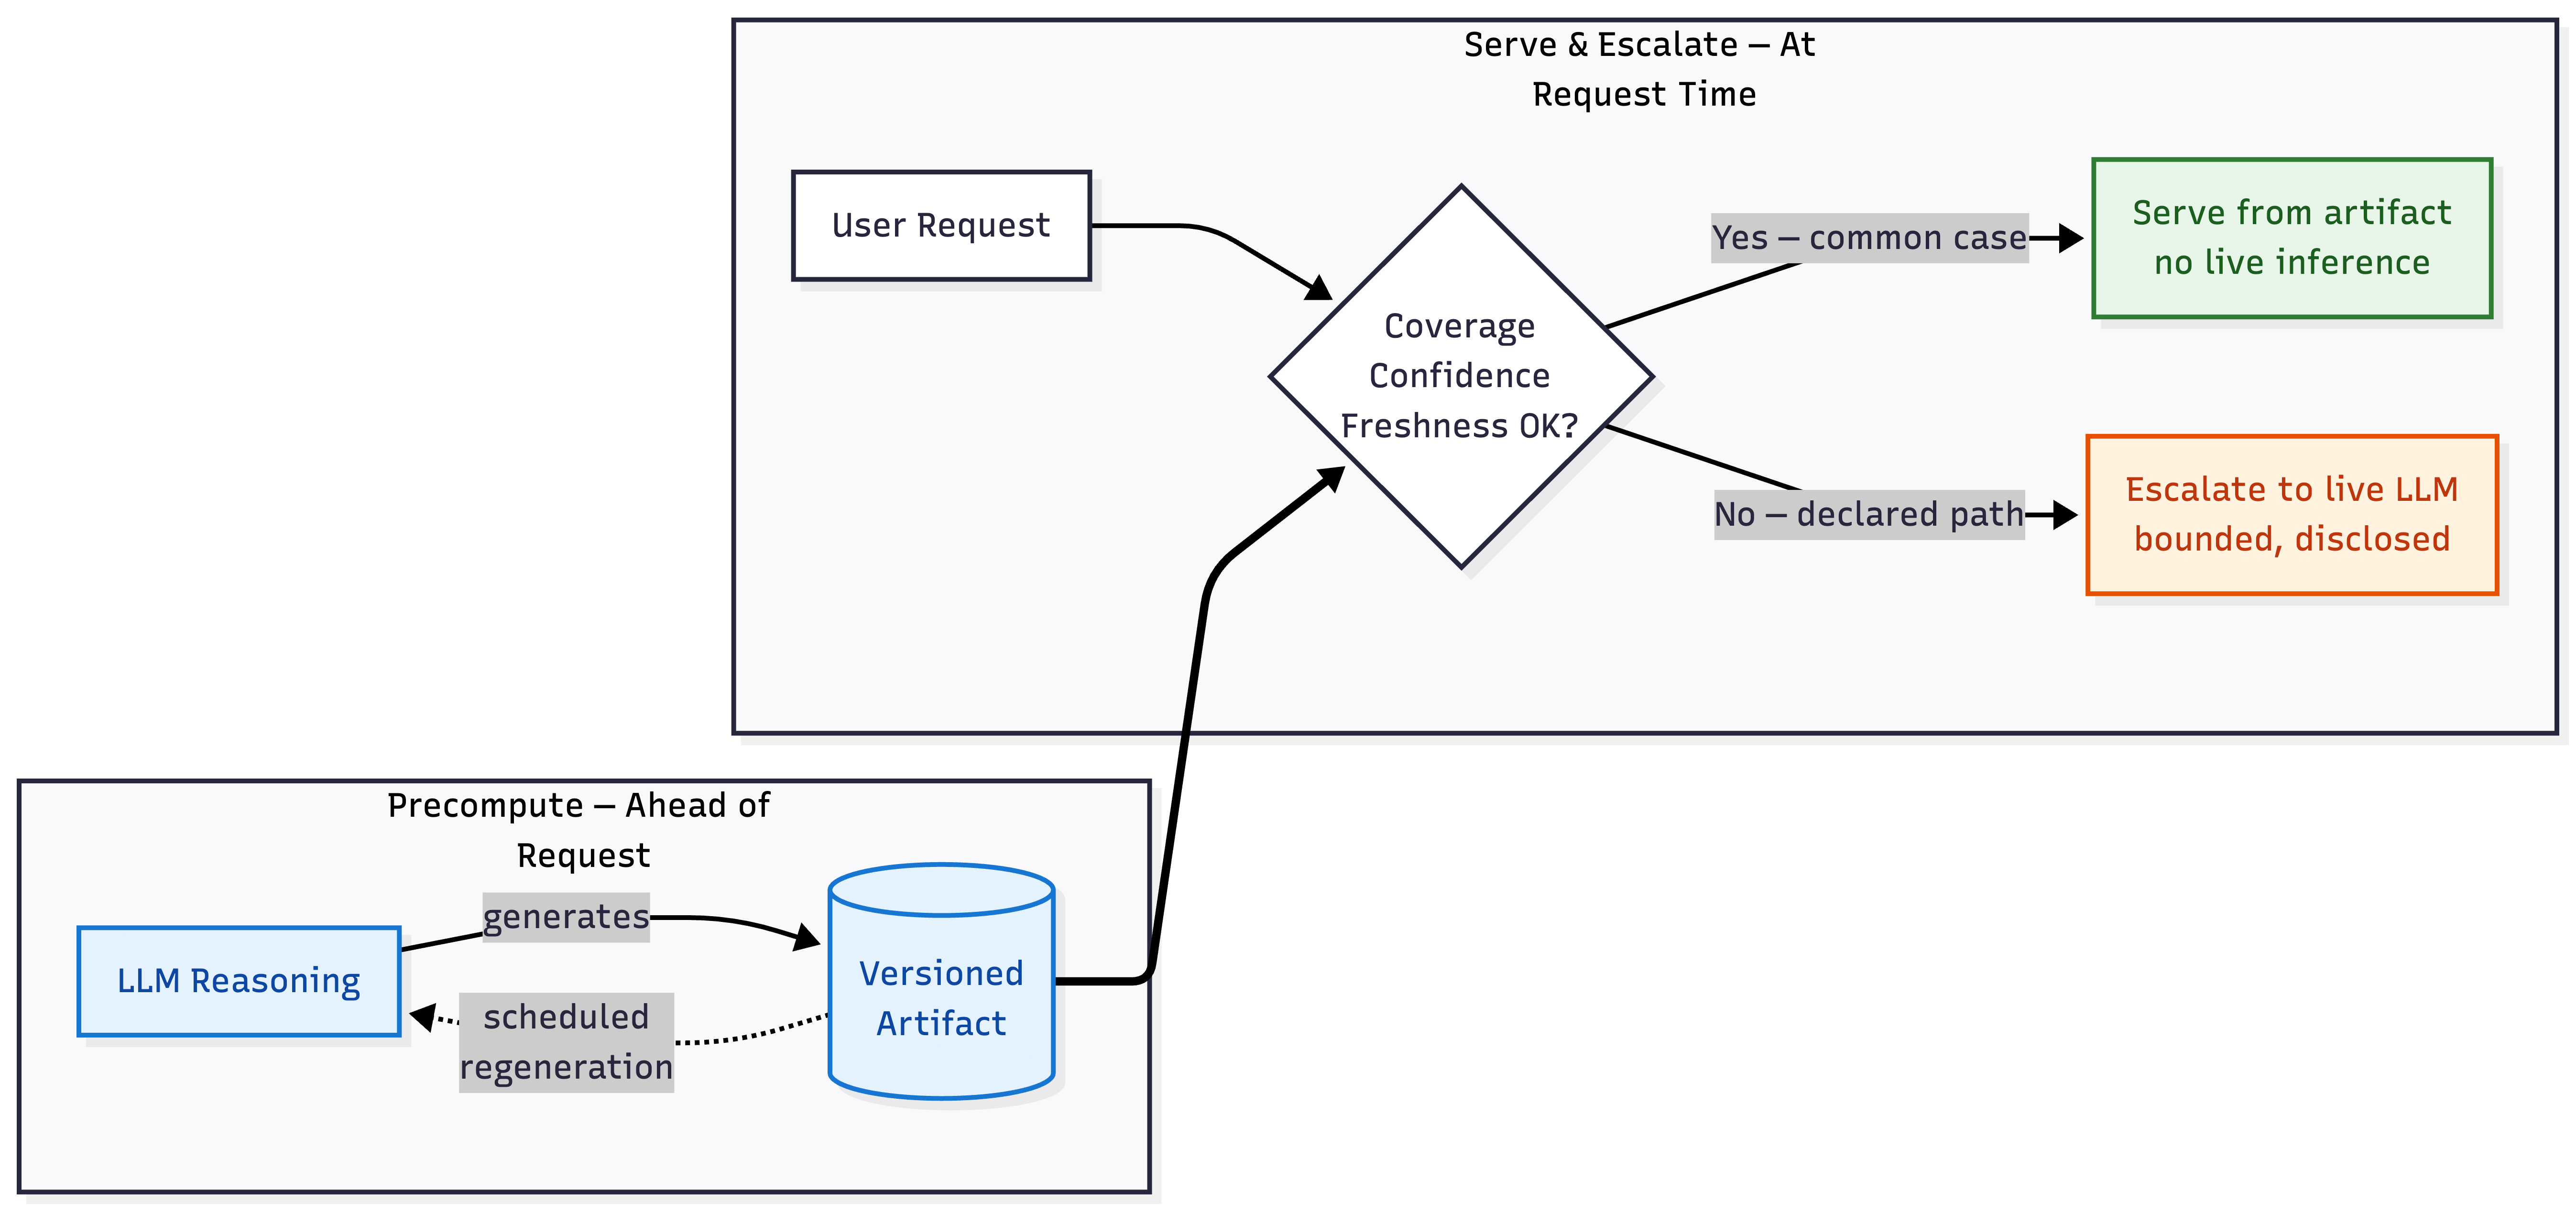
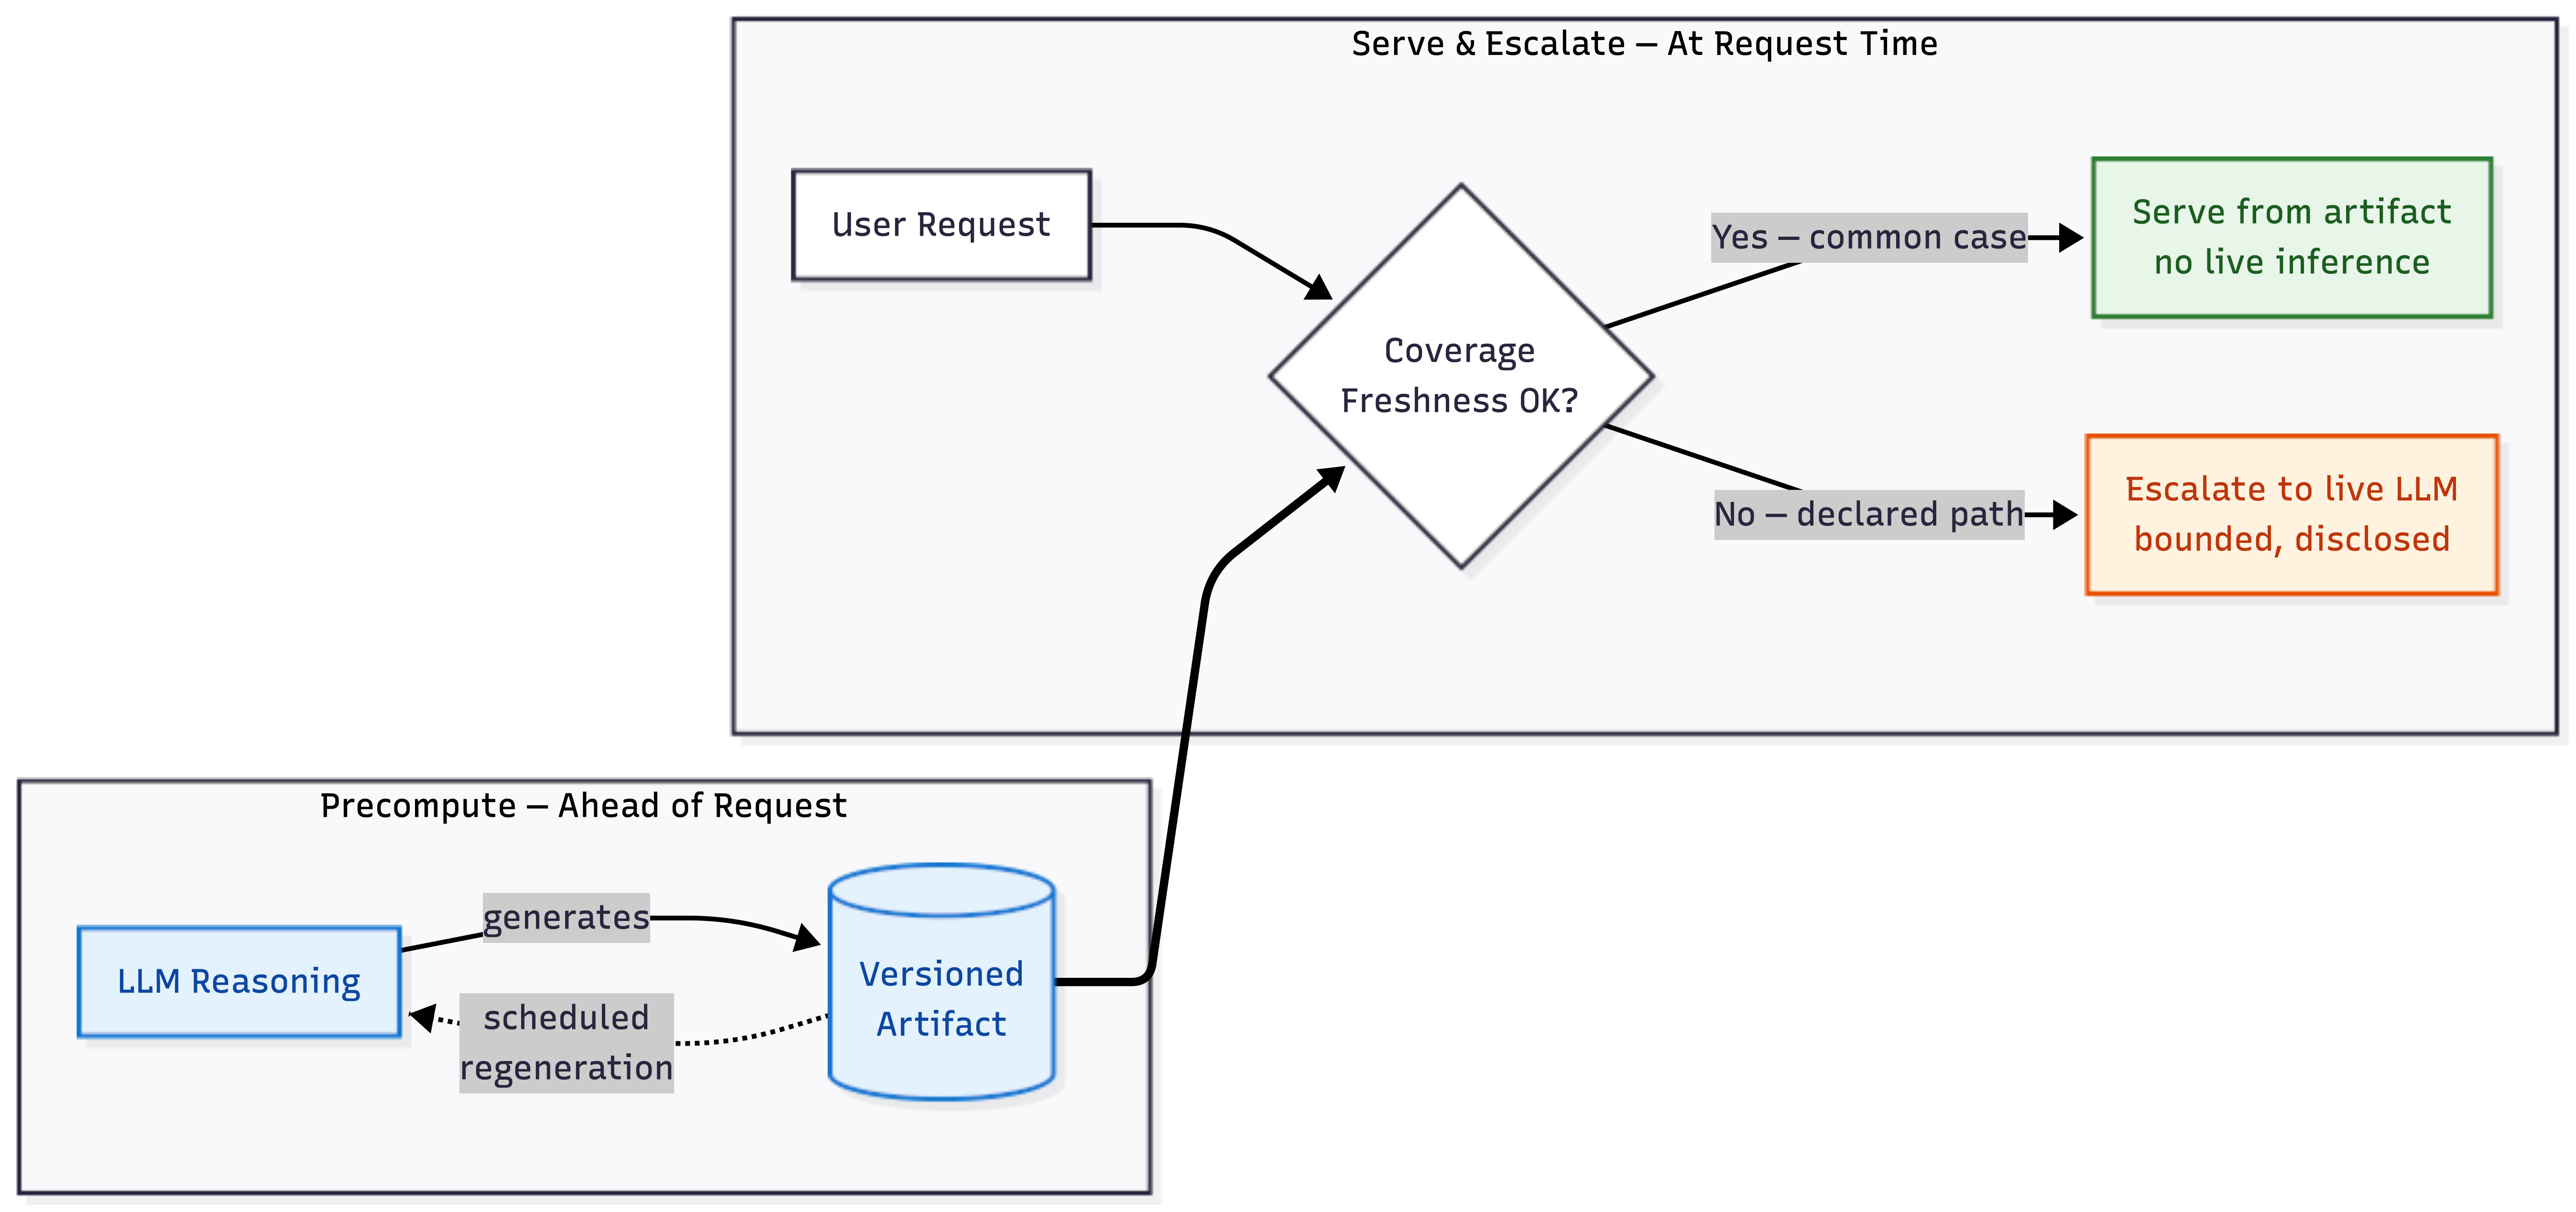
refactor: simplify pattern taxonomy by replacing constraint-baking and scheduled-generation with reasoning, constraints, and snapshots.

diff --git a/README.md b/README.md
@@ -18,15 +18,15 @@ Call it **Precomputed AI**, or **PAI** for short.
 
 **The idea is simple: use the LLM before your users show up, not while they're waiting. Bake the reasoning into something you can version, test, and serve instantly. Only call the LLM live when the precomputed stuff can't handle it.**
 
-Three words: *precompute, serve, escalate.*
+Three words: *precompute, serve, escalate*
 
 If you've used Next.js static export, Jekyll, or Hugo, this will look familiar. Those tools generate pages at build time and serve them instantly at request time, falling back to dynamic rendering only when they have to. PAI applies the same idea to LLM reasoning.
 
 The artifact doesn't have to be a web page. It can be a decision ruleset. A lookup table. Generated code. A precomputed explanation. A policy surface. What matters is where the reasoning lives — not on the user's request, but ahead of it.
 
-PAI is a systems pattern, not an algorithm. It asks where reasoning lives, not what form it takes.
+PAI is a systems pattern, not an algorithm. It asks where reasoning lives — ahead of the request, or inside it.
 
-![Precompute to artifact, served at request time, with an escalate branch when coverage, confidence, or freshness fails](diagram.png)
+![Precompute to artifact, served at request time, with an escalation branch when coverage or freshness fails](diagram.png)
 
 ---
 
@@ -34,19 +34,19 @@ PAI is a systems pattern, not an algorithm. It asks where reasoning lives, not w
 
 PAI gets confused with several adjacent ideas. It shouldn't be.
 
-**It's not caching.** A cache stores identical outputs keyed on identical inputs. PAI precomputes reasoning across an *input space* — a decision surface that covers many cases, not a lookup of past answers.
+**It's not caching.** A cache stores identical outputs keyed on identical inputs. PAI precomputes reasoning across a *decision space* that covers many cases, not a lookup of past answers.
 
-**It's not prompt or context caching.** Prompt caching reduces prefill cost for repeated prompt prefixes, but the final answer is still generated by a live model on every request. PAI removes the live call from the served path entirely.
+**It's not prompt or context caching.** Prompt caching reduces prefill cost for repeated prompt prefixes, but the final answer is still generated by a live model on every request. Response caching stores the full output for identical inputs — closer, but still per-query memoization. PAI removes the live call from the served path entirely.
 
-**It's not batch inference.** Netflix precomputing your movie recommendations overnight is a decades-old pattern on prediction models — the model emits scores, and the served artifact is a numeric table. PAI precomputes *reasoning*: the artifact is itself authored by the LLM, encodes a decision surface with fuzzy coverage, and treats abstention as a first-class outcome with a declared escalation path. Batch inference scores known items; PAI compiles judgment about an input space that won't be fully known until request time.
+**It's not batch inference.** Netflix precomputing your movie recommendations overnight is a decades-old pattern — the served artifact is a ranked list or numeric table. PAI precomputes *reasoning*: the artifact is authored by the LLM, encodes a decision space with fuzzy coverage, and treats abstention as a first-class outcome with a declared escalation path. Batch inference scores known items; PAI compiles judgment about a decision space that won't be fully known until request time.
 
 **It's not routing or cascades.** Routing decides *which* model handles the request. PAI removes the model from the request path altogether.
 
-**It's not Compiled AI.** [A recent paper](https://arxiv.org/abs/2604.05150) from XY.AI Labs, Stanford, Cornell, and Harvard defines Compiled AI as LLM-generated code artifacts that run deterministically without further model invocation. That's one valid technique inside PAI, but PAI covers more than just code artifacts — rulesets, lookup tables, precomputed text, policy surfaces, routing maps — and it keeps escalation as a first-class option.
+**It's not Compiled AI.** [A 2026 paper](https://arxiv.org/abs/2604.05150) from XY.AI Labs, Stanford, and Harvard defines Compiled AI as LLM-generated code artifacts that run deterministically without further model invocation. That's one valid technique inside PAI, but PAI covers more than just code artifacts — rulesets, lookup tables, precomputed text, policy surfaces, routing maps — and it keeps escalation as a first-class option. ("Artifact" in the Compiled AI sense means generated code; in PAI it means any precomputed output of LLM reasoning.)
 
 PAI also sits *above* implementation tooling like DSPy, LMQL, and guidance. Those are ways to author and optimize prompts and programs. PAI is the design pattern that decides where the resulting reasoning lives — at request time, or ahead of it.
 
-I recognize this doesn't apply to every situation. PAI fits best where the input space is bounded and the reasoning is stable enough to precompute — rules-based systems, deterministic paths, decisions that don't need to be re-derived on every request.
+I recognize this doesn't apply to every situation. PAI fits best where the decision space is bounded and the reasoning is stable enough to precompute — rules-based systems, deterministic paths, decisions that don't need to be re-derived on every request.
 
 ---
 
@@ -58,29 +58,26 @@ Every PAI system has three required properties. Without all three, you have some
 
 **2. A regeneration cadence.** The artifact has a refresh policy — hourly, daily, weekly, or triggered by an external event. This addresses the issue of "Won't your ruleset go stale?" Yes, unless you regenerate it. Name the cadence. Show the last-refreshed date. Define the freshness window.
 
-**3. A declared coverage path.** When the artifact can't decide — novel input, low confidence, expired freshness — the system has a documented, gated path for what happens next. Live LLM escalation is the most powerful option, but a deterministic fallback or an explicit abstention ("we don't cover this; here's why") also count. What's not allowed is a silent guess. In user-facing tools the legible form is opt-in with disclosed cost; in enterprise systems it may be policy-, budget-, or admin-gated. The contract is the same; the surface differs.
+**3. A declared escalation path.** When the artifact can't decide — novel input, expired freshness — the system has a documented, gated path for what happens next. Live LLM escalation is the most powerful option, but a deterministic fallback or an explicit abstention ("we don't cover this; here's why") also count. What's not allowed is a silent guess. In user-facing tools the legible form is opt-in with disclosed cost; in enterprise systems it may be policy-, budget-, or admin-gated. The contract is the same; the surface differs.
 
 ---
 
 ## Patterns
 
-Three named patterns currently have shipped proof. Each is a way of applying the required properties to a real system. They compose: a real PAI system typically uses one artifact-shape pattern together with the cadence pattern.
+PAI accommodates multiple patterns — different artifact types,
+refresh cadences, and escalation paths. Named patterns and worked
+examples live in the [pattern catalog](https://precomputedai.com/patterns/).
 
-**Explanation Caching.** The decision logic is deterministic; the LLM writes the reasoning layer ahead of time, and your app serves precomputed explanations alongside the result. RightModel is the canonical example.
-
-**Constraint Baking.** The system precomputes the boundary where the default answer stops holding. RunWhere is the canonical example: stay on the hosted API unless the workload belongs in the self-hosting exception set.
-
-**Scheduled Generation.** The artifact refreshes on a named cadence. Like a newspaper, not a livestream. CloudEstimate's pricing pipeline is the canonical example.
 
 ---
 
-## Three tools I've shipped with this pattern
+## Three tools I've shipped with PAI
 
-**[rightmodel.dev](https://rightmodel.dev)** — model picker for coding tasks. *Input:* a coding task signal set. *Decision logic:* a deterministic ruleset mapping signals to model tiers — no LLM in the decision path. *Artifact:* the explanation cache — precomputed, LLM-authored reasoning for each recommendation, versioned and served alongside the result. *Cadence:* explanation cache refreshed on schedule when prices, models, or capabilities shift. *Coverage path:* opt-in "deep analysis" that escalates to a live LLM with cost disclosed before the user commits. The numbers question: what does it cost to keep the explanation layer fresh, and what does that buy us? Canonical full-PAI example: all three required properties met.
+**[rightmodel.dev](https://rightmodel.dev)** — model picker for coding tasks. *Input:* a coding task signal set. *Decision logic:* a deterministic ruleset mapping signals to model tiers — no LLM in the decision path. *Artifact:* the precomputed explanation layer — LLM-authored reasoning for each recommendation, versioned and served alongside the result. *Cadence:* refreshed on schedule when prices, models, or capabilities shift. *Escalation path:* opt-in "deep analysis" that calls a live LLM with cost disclosed before the user commits. Full PAI: all three required properties met.
 
-**[cloudestimate.dev](https://cloudestimate.dev)** — sizes self-managed workloads across AWS, GCP, and Azure. *Input:* workload + region + cloud. *Artifact:* vendor reference architectures mapped to instance tables, plus LLM-generated sizing explanations, all committed as versioned JSON. *Cadence:* daily pricing snapshots and regenerated explanations via GitHub Actions; "Pricing data last refreshed" footer surfaces the staleness window. *Coverage path:* deterministic fallback (e.g. committed-term pricing computed against the same data); no live LLM escalation in the user flow today. Partial PAI: Scheduled Generation only — listed here as an honest worked example of where live escalation didn't fit the product.
+**[cloudestimate.dev](https://cloudestimate.dev)** — sizes self-managed workloads across AWS, Google Cloud, and Microsoft Azure. *Input:* workload + region + cloud. *Decision logic:* vendor reference architectures mapped to instance tables. *Artifact:* precomputed sizing explanations and pricing data, committed as versioned JSON. *Cadence:* daily pricing snapshots and regenerated explanations via GitHub Actions; "Pricing data last refreshed" footer surfaces the staleness window. *Escalation path:* deterministic fallback — committed-term pricing computed against the same data; no live LLM call in the user flow. Full PAI: all three required properties met.
 
-**[runwhere.dev](https://runwhere.dev)** — answers "stay on the hosted API, or run your own model?" *Input:* a four-question check — API spend, hosted model, anticipated utilization, hard constraints. *Artifact:* a precomputed boundary that separates the API-default common case from a self-hosting exception set; on the exception side, a comparison across managed endpoints, serverless GPU, always-on and batch GPU VMs, and owned hardware. *Cadence:* refreshed when prices, models, or constraints change. *Coverage path:* live LLM analysis reserved for close calls and likely outliers.
+**[runwhere.dev](https://runwhere.dev)** — answers "stay on the hosted API, or run your own model?" *Input:* a four-question check — API spend, hosted model, traffic pattern, hard constraints. *Decision logic:* a precomputed boundary separating the API-default common case from the self-hosting exception set. *Artifact:* the boundary plus a precomputed comparison across managed endpoints, serverless GPU, always-on and batch GPU VMs, and owned hardware. *Cadence:* refreshed when prices, models, or constraints change. *Escalation path:* live LLM analysis reserved for close calls and likely outliers. Full PAI: all three required properties met.
 
 ---
 
@@ -88,7 +85,7 @@ Three named patterns currently have shipped proof. Each is a way of applying the
 
 PAI fits when:
 
-- the input space is bounded or classifiable;
+- the decision space is bounded or classifiable;
 - the reasoning changes slower than request frequency;
 - most requests fall into repeatable cases;
 - low latency or cost predictability matters;
@@ -113,13 +110,19 @@ If those conditions hold, you want live inference, retrieval, or fine-tuning —
 
 ## Why this matters now
 
-Token costs compound at scale. Cheap per call, expensive per million calls. Teams shipping at production volume are running into this wall right now.
+Token costs compound at scale. Cheap per call, expensive per million calls. Teams shipping at production volume are running into this wall right now. PAI moves reasoning out of the request, turning per-call cost into periodic regeneration cost.
 
-Latency budgets are tight. Users don't tolerate synchronous LLM calls in interfaces that used to feel instant. Every feature shipped with a live LLM call is a latency regression unless the reasoning lives somewhere else.
+Latency budgets are tight. Users don't tolerate synchronous LLM calls in interfaces that used to feel instant. Every feature shipped with a live LLM call is a latency regression unless the reasoning lives somewhere else. PAI removes the LLM from the request path — the served artifact is as fast as a static file.
 
-Auditability is becoming a buyer requirement. Enterprise and regulated industries do not accept "the model decided" as an audit trail. Precomputed artifacts are easier to inspect, version, diff, test, and replay than free-form live inference.
+Auditability is becoming a buyer requirement. Enterprise and regulated industries do not accept "the model decided" as an audit trail. A versioned PAI artifact is inspectable, diffable, and testable by default.
 
-LLM providers themselves are moving in this direction — prompt caching, batch APIs, cached responses — without giving it a name. PAI is the name for what a lot of us are already doing under different labels.
+PAI puts a name on a pattern emerging independently across teams. Shared vocabulary makes it easier to teach, evaluate, and compose.
+
+---
+
+## Open questions
+
+- **What does it cost to keep the explanation layer fresh, and what does that buy you?** RightModel is the testbed. The answer depends on regeneration frequency, decision space size, and how much live inference it displaces. Numbers forthcoming.
 
 ---
 
@@ -145,6 +148,6 @@ Concrete ways to engage:
 
 Licensed CC BY 4.0. Cite as: Raquedan, R. (2026). *Precomputed AI: Reason Ahead of Time, Serve Instantly.* https://precomputedai.com
 
-*Last refreshed: 2026-05-03 — v0.5*
+*Last refreshed: 2026-05-17 — v0.6*
 
 This site is open source. [Improve this page](https://github.com/PrecomputedAI/precomputed-ai/edit/main/README.md).

diff --git a/patterns/reasoning.md b/patterns/reasoning.md
@@ -1,0 +1,29 @@
+# Reasoning
+
+*An LLM writes the reasoning layer ahead of time. The application serves precomputed explanations at request time; the decision logic itself is deterministic.*
+
+## Problem
+
+A bounded decision space — model selection, content classification, eligibility, routing — is handled by deterministic logic that already works. But users need to understand *why* they got the answer they got. Generating that explanation with a live LLM call on every request burns tokens and adds latency for reasoning that rarely changes between inputs of the same class.
+
+## Mechanism
+
+Before request time, an LLM is prompted to generate explanations for each region of the decision space. The resulting explanation artifact — a JSON or YAML file mapping decision outcomes to human-readable reasoning — is versioned and served alongside the deterministic result. The decision logic runs without the LLM. The explanation layer is the precomputed artifact.
+
+## Required properties
+
+- **Versioned artifact:** the explanation artifact has a version ID, generation timestamp, and known mapping to the decision outputs it covers.
+- **Regeneration cadence:** the explanation artifact is regenerated on a named schedule, or when the underlying decision space changes (new models, changed pricing, shifted capabilities).
+- **Declared escalation path:** when an input doesn't have a precomputed explanation, or the explanation has expired, the system has a documented, gated path — live LLM escalation, deterministic fallback, or explicit abstention. No silent guesses.
+
+## Canonical example
+
+[RightModel](https://rightmodel.dev) maps coding task signals to model tiers using deterministic decision logic. The PAI artifact is the precomputed explanation layer: LLM-authored reasoning for each recommendation, versioned and served alongside the result. Requests served from the artifact cost zero tokens. When a precomputed explanation can't cover a case — novel input, edge case, user wants deeper reasoning — the user can opt into "deep analysis," a disclosed-cost live LLM call.
+
+## When it fits
+
+The decision logic is already deterministic. The value the LLM adds is the reasoning layer — the "why," not the "what." Explanations change more slowly than request frequency. Coverage gaps in the explanation space are detectable.
+
+## When it doesn't
+
+The decision itself requires live LLM reasoning. Explanations are highly personalized or context-dependent. The explanation space is too large to precompute meaningfully.

diff --git a/patterns/README.md b/patterns/README.md
@@ -1,15 +1,15 @@
 # Patterns
 
-Named patterns under [Precomputed AI](https://precomputedai.com). Each pattern applies the three required properties — versioned artifact, regeneration cadence, declared coverage path — to a specific class of problem.
+Things you can precompute under [Precomputed AI](https://precomputedai.com):
 
-| Pattern | Canonical example |
-|---|---|
-| [Explanation Caching](./explanation-caching.md) | [RightModel](https://rightmodel.dev) |
-| [Constraint Baking](./constraint-baking.md) | [RunWhere](https://runwhere.dev) |
-| [Scheduled Generation](./scheduled-generation.md) | [CloudEstimate](https://cloudestimate.dev) |
+- **[Reasoning](./reasoning.md)** — LLM-authored prose alongside deterministic decisions. Canonical example: [RightModel](https://rightmodel.dev).
+- **[Constraints](./constraints.md)** — boundaries where the default answer stops holding. Canonical example: [RunWhere](https://runwhere.dev).
+- **[Snapshots](./snapshots.md)** — point-in-time captures of state, regenerated on a named cadence. Canonical example: [CloudEstimate](https://cloudestimate.dev).
+
+Each artifact type meets the three required properties — versioned artifact, regeneration cadence, declared escalation path — when wired into a real system. The catalog grows as new artifact types ship with worked examples.
 
 ## Contributing
 
-A pattern earns a name when it has a shipped worked example and meets all three required properties. Pattern PRs without a worked example will be redirected to an issue tagged `pattern-candidate` until a demo exists.
+A pattern earns a name when it has a shipped worked example and meets all three required properties. PRs without a worked example will be redirected to an issue tagged `pattern-candidate` until a demo exists.
 
-Open a PR against this directory with a new pattern file following the structure of the existing patterns: problem, mechanism, required properties, canonical example, when-it-fits, when-it-doesn't.
+Open a PR against this directory with a new pattern file following the structure of the existing patterns: problem, mechanism, required properties, canonical example, when it fits, when it doesn't.

diff --git a/CONTRIBUTING.md b/CONTRIBUTING.md
@@ -4,9 +4,9 @@ Precomputed AI is a design-pattern repo, not a code library. The bar is editoria
 
 ## Three ways to contribute
 
-1. **Pattern contributions** — open a PR adding a file to [`patterns/`](./patterns/) following the structure of the existing patterns: Problem, Mechanism, Required properties, Canonical example, When it fits, When it doesn't. A pattern earns a name when it has a shipped worked example *and* meets all three required properties (versioned artifact, regeneration cadence, declared coverage path). Pattern PRs without a worked example will be redirected to a [`pattern-candidate`](./.github/ISSUE_TEMPLATE/pattern-candidate.md) issue until a demo exists.
+1. **Pattern contributions** — open a PR adding a file to [`patterns/`](./patterns/) following the structure of the existing patterns: Problem, Mechanism, Required properties, Canonical example, When it fits, When it doesn't. A pattern earns a name when it has a shipped worked example *and* meets all three required properties (versioned artifact, regeneration cadence, declared escalation path). Pattern PRs without a worked example will be redirected to a [`pattern-candidate`](./.github/ISSUE_TEMPLATE/pattern-candidate.md) issue until a demo exists.
 
-2. **Worked examples** — open an [`example`](./.github/ISSUE_TEMPLATE/example.md) issue linking to your shipped artifact. The strongest examples include the input space, the artifact form and storage, the regeneration cadence, and the coverage path for inputs the artifact can't decide.
+2. **Worked examples** — open an [`example`](./.github/ISSUE_TEMPLATE/example.md) issue linking to your shipped artifact. The strongest examples include the decision space, the artifact form and storage, the regeneration cadence, and the escalation path for inputs the artifact can't decide.
 
 3. **Critique the definitions** — open a [`discuss`](./.github/ISSUE_TEMPLATE/discussion.md) issue. Sharp critique is more useful than agreement. Push back on definitions, on the boundary between patterns, on whether a required property is actually required.
 